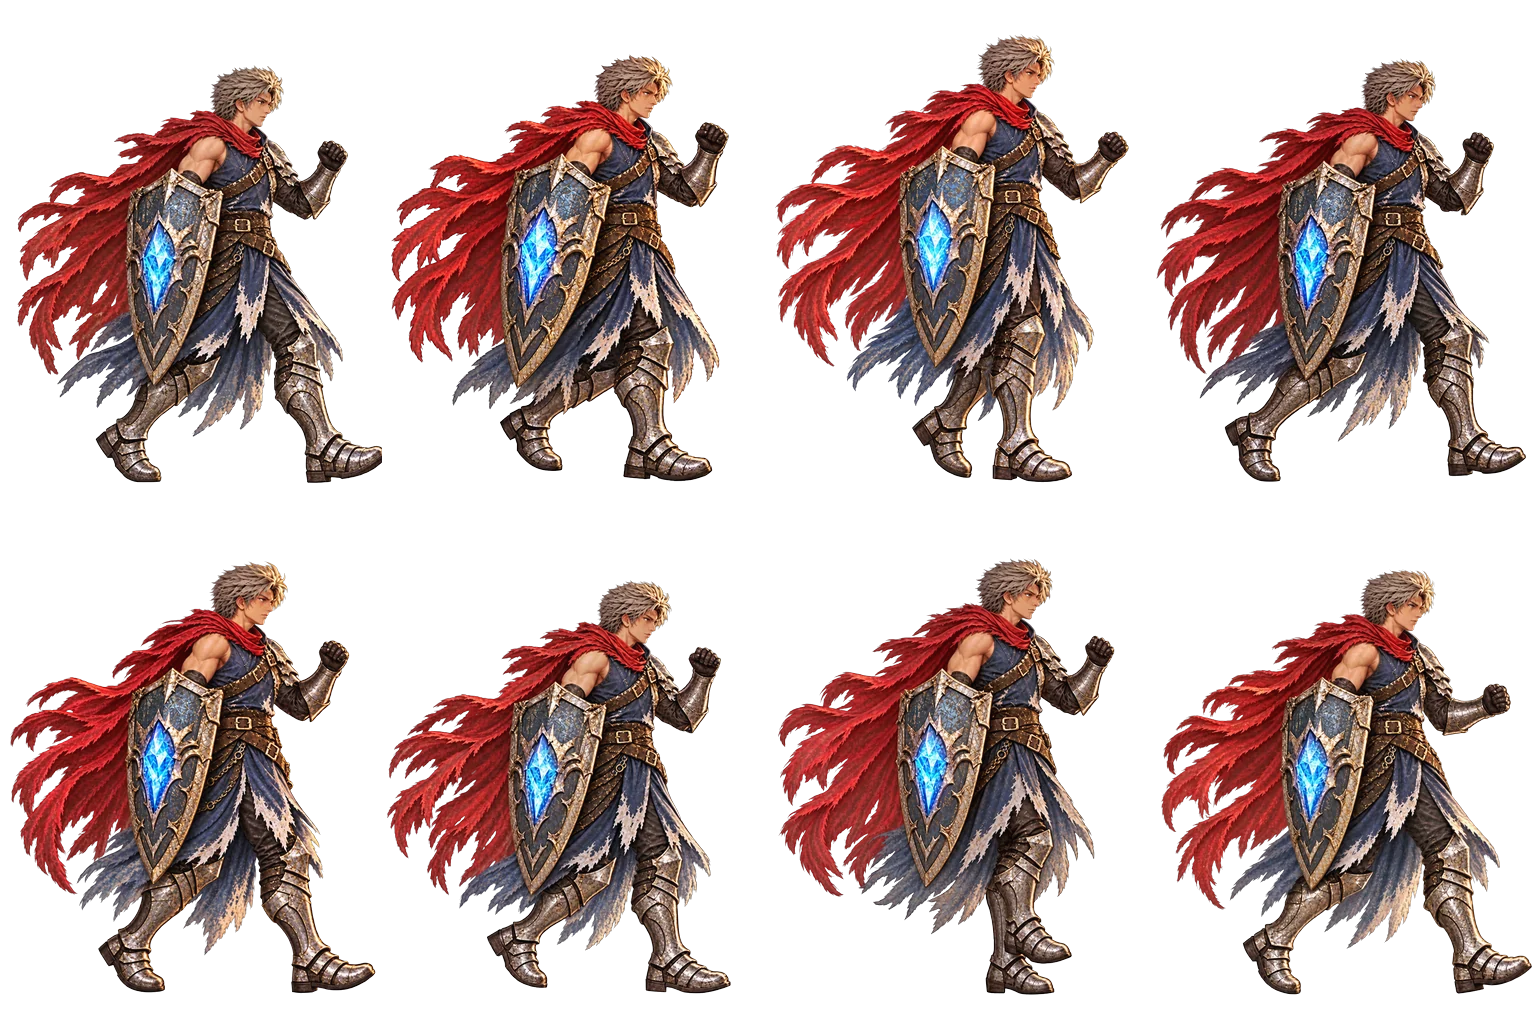
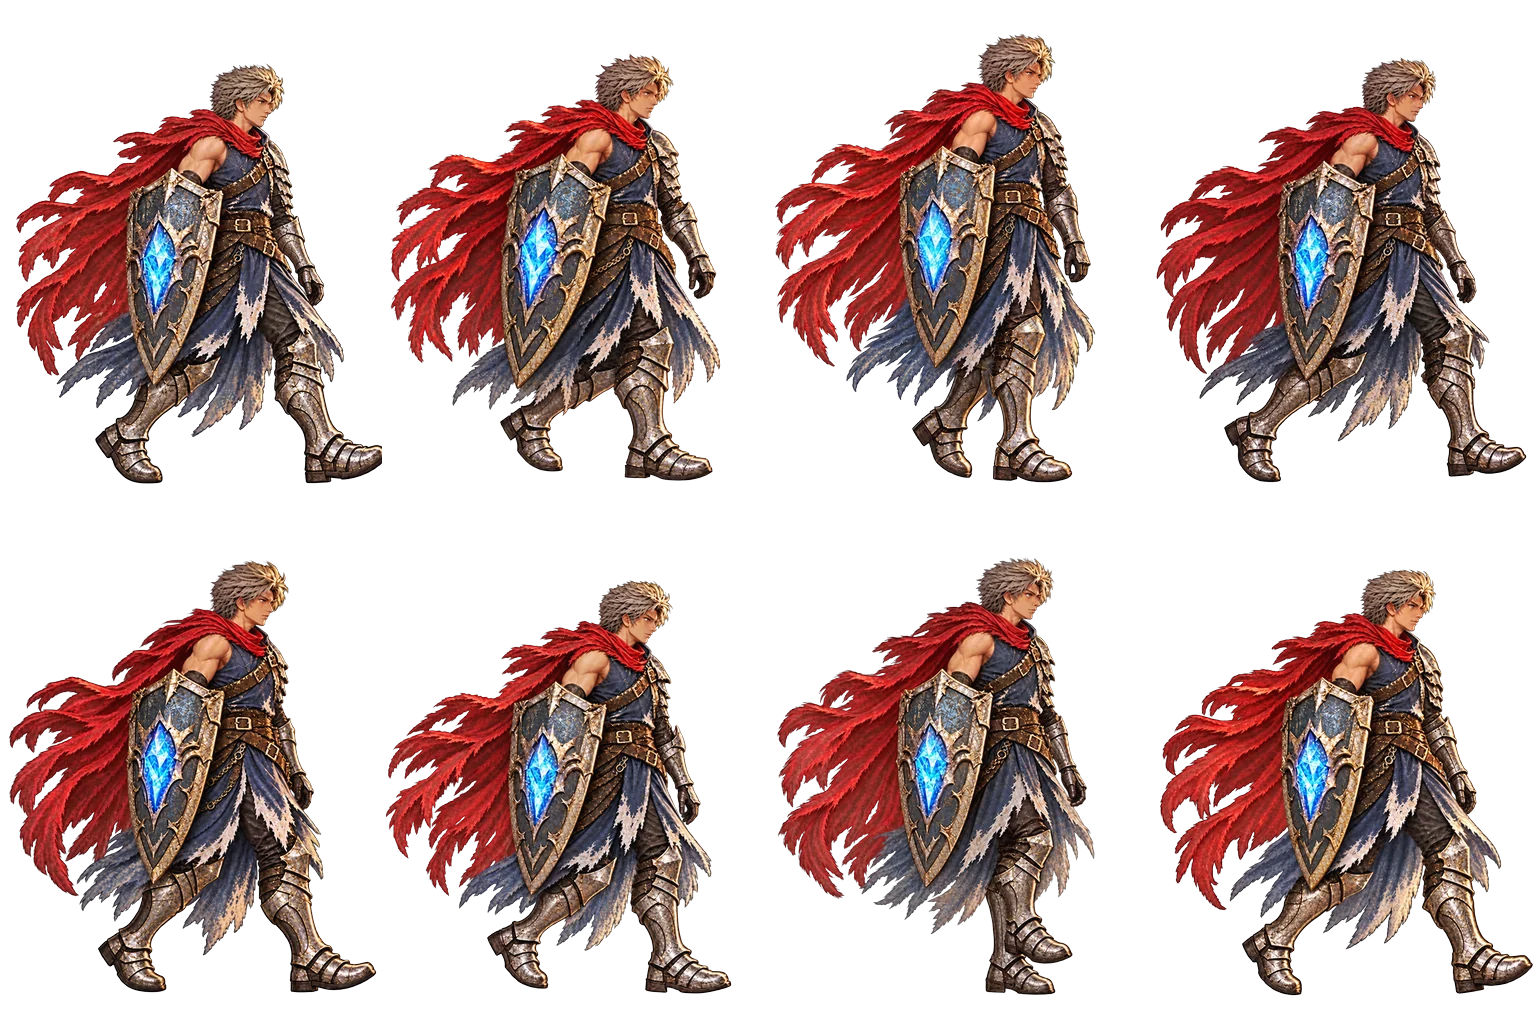
Cade's empty-handed walk swings his free arm low
The weaponless walk kept his sword hand raised in a fist. Codex repainted
each of the eight cells with that arm hanging and swinging naturally;
legs, shield, size and feet are unchanged.

Claude-Session: https://claude.ai/code/session_01JG9XVx7ekEzCTp7T6JyNCj

diff --git a/tools/art/cade-walk-arms.py b/tools/art/cade-walk-arms.py
@@ -1,0 +1,64 @@
+"""Cade's empty-handed walk, second pass: his free arm swings low instead of staying up in a fist.
+
+python tools/art/cade-walk-arms.py fit <dir>    fit Codex's cN/out.png onto walk_bare's cells -> art/raw/wave-12/knight_walk_arms/cN.png
+python tools/art/cade-walk-arms.py assemble     write the fitted cells into characters/ally_knight/walk_bare.webp
+Briefs, references and Codex's raw output were made per cell (one edit of each walk_bare cell, run on the parent's PC).
+"""
+import json
+import sys
+from pathlib import Path
+
+import numpy as np
+from PIL import Image
+
+sys.path.insert(0, str(Path(__file__).parent))
+fit = __import__("wave12-fit")
+
+ROOT = Path(__file__).resolve().parents[2]
+SHEET = ROOT / "public/assets/characters/ally_knight/walk_bare.webp"
+OUT = ROOT / "art/raw/wave-12/knight_walk_arms"
+
+
+def do_fit(src):
+    sheet = Image.open(SHEET).convert("RGBA")
+    for c in range(8):
+        old = sheet.crop(fit.cell_box("walk", c))
+        w, h = old.size
+        g = Image.open(Path(src) / f"c{c}/out.png").convert("RGBA")
+        if g.size != (1024, 1024):
+            g = g.resize((1024, 1024), Image.LANCZOS)
+        best = (1e9, 1.0, 0, 0)
+        for s in np.arange(0.90, 1.101, 0.02):
+            for dx in range(-28, 29, 4):
+                for dy in range(-28, 29, 4):
+                    best = min(best, (fit.score(old, fit.place(g, w, h, s, dx, dy)), s, dx, dy))
+        for _ in range(2):
+            _, s0, x0, y0 = best
+            for s in np.arange(s0 - 0.015, s0 + 0.016, 0.005):
+                for dx in range(x0 - 3, x0 + 4):
+                    for dy in range(y0 - 3, y0 + 4):
+                        best = min(best, (fit.score(old, fit.place(g, w, h, s, dx, dy)), s, dx, dy))
+        v, s, dx, dy = best
+        fd = fit.feet(fit.place(g, w, h, s, dx, dy)) - fit.feet(old)
+        if abs(fd) > 1:
+            dy -= fd
+        arr = np.asarray(fit.place(g, w, h, s, dx, dy)).copy()
+        arr[arr[..., 3] < 10] = 0
+        arr[:2], arr[-2:], arr[:, :2], arr[:, -2:] = 0, 0, 0, 0
+        new = Image.fromarray(arr)
+        OUT.mkdir(parents=True, exist_ok=True)
+        new.save(OUT / f"c{c}.png")
+        print(c, json.dumps({"scale": round(float(s), 3), "dx": int(dx), "dy": int(dy), "score": round(v, 4),
+                             "feet_old": fit.feet(old), "feet_new": fit.feet(new)}))
+
+
+def do_assemble():
+    out = Image.new("RGBA", (1536, 1024), (0, 0, 0, 0))
+    for c in range(8):
+        out.paste(Image.open(OUT / f"c{c}.png").convert("RGBA"), fit.cell_box("walk", c)[:2])
+    out.save(SHEET, "WEBP", quality=86, method=6)
+    print(SHEET.relative_to(ROOT), SHEET.stat().st_size // 1024, "KB")
+
+
+if __name__ == "__main__":
+    do_fit(sys.argv[2]) if sys.argv[1] == "fit" else do_assemble()

diff --git a/art/waves/wave-12-forged-weapons.md b/art/waves/wave-12-forged-weapons.md
@@ -153,4 +153,5 @@ Wren's and Maren's talking poses (`field.webp`) keep their weapons: the game onl
 - Several cells came back drawn up to 13% larger (Wren's cast and victory, Knox's cast, Maren's frame 5 of the walk) and were scaled back to the old figure.
 - PR #27 wasn't on this branch yet, so Maren's new entries carry `scale` by hand (battle_1, battle_2, stand 1.12; walk_bare 1.1).
 - The walks' upper bodies stay within 4 px of the old walks frame by frame, so `align_walks.py` wasn't rerun.
+- 18 Oct, the parent's playtest: Cade's empty-handed walk kept his free hand up in a fist where the sword had been ("a bro fist the whole time"). Each `walk_bare` cell was edited again with Codex so that arm hangs and swings low with the hand loosely open (`tools/art/cade-walk-arms.py`; briefs in `art/raw/wave-12/knight_walk_arms/`). Legs, shield, size and feet unchanged (feet within 1 px). Wren's walk also holds a fist up and could take the same pass.
 - 17 Oct, Section C: all ten battle sheets and the ten icons redone (`tools/art/wave12-c.py`, `wave12-icons.py`), each cell checked with a red/cyan overlay (`wave12-overlay.py`). Wren's, Knox's and Tamsin's first gold step 1 looked too close to their old weapons at 128 px, so it was pushed further (bigger, brighter gold, no brown). Section C fits run without the feet snap (`WAVE12_NOSNAP`), because a big blade's glow below the boots dragged heroes up; feet were checked by eye. A weapon reaching the cell edge fades out over 12 px (Cade's step 1 victory, step 2 attack). Retries are listed in `art/review/wave-12.md`.
